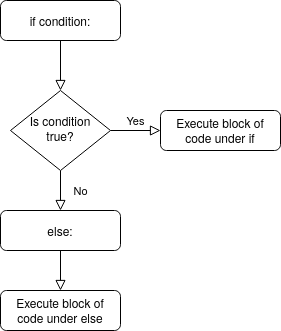
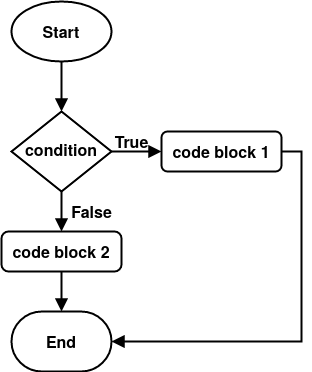
- edit content if-statements:if

diff --git a/CHANGELOG.md b/CHANGELOG.md
@@ -12,7 +12,7 @@ and this project adheres to [Semantic Versioning](https://semver.org/spec/v2.0.0
 
 ### Changed
 
-- Edited Basics: String Formatting
+- Edited Basics:String Formatting, If Statements:If Statements
 
 ## [0.5.1] - 2020-02-11
 
